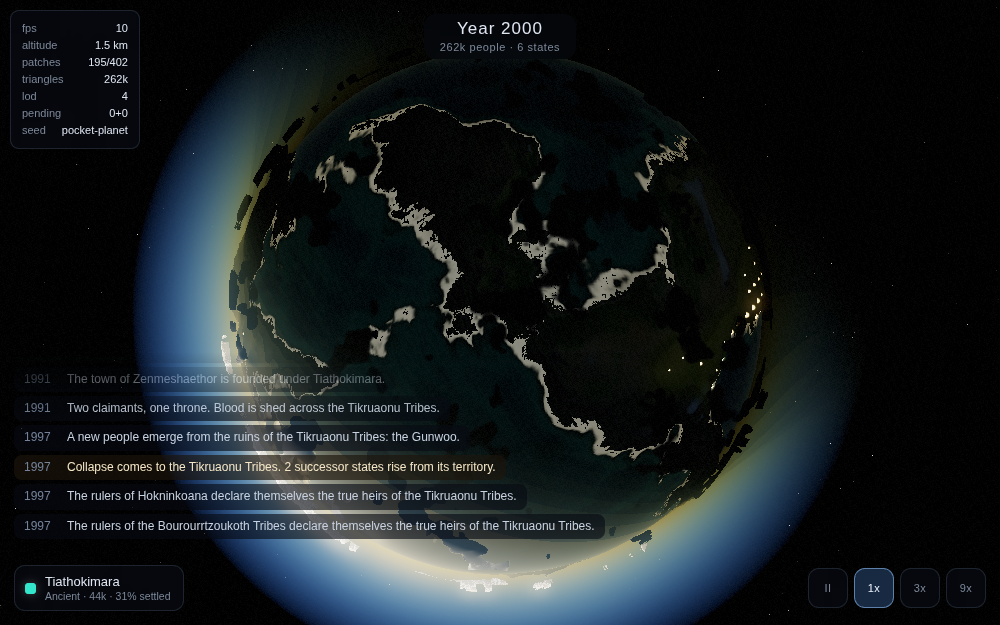
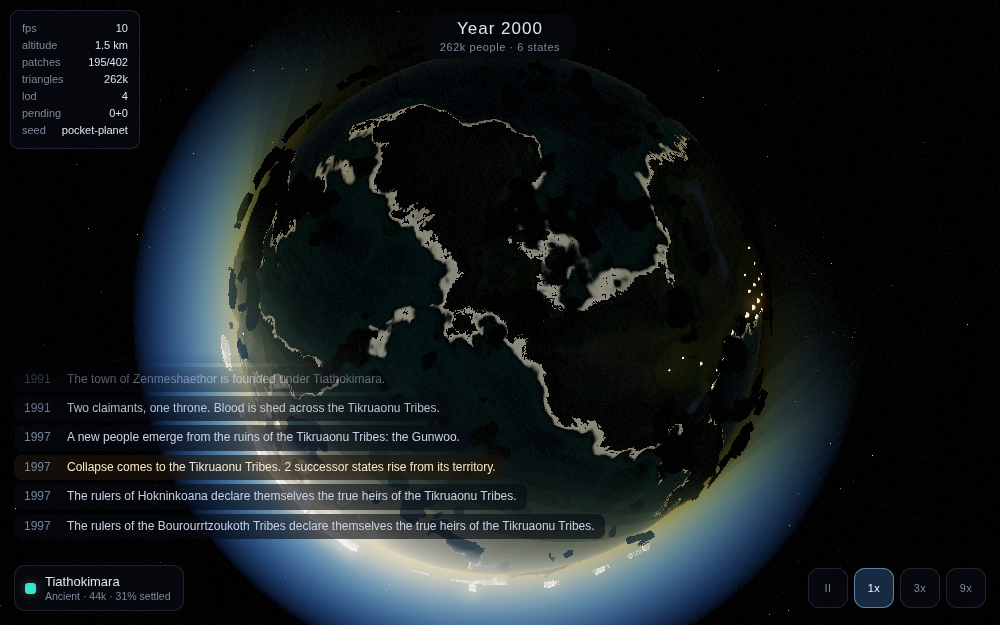
Refresh the reference shots, and add one of the region
The new viewpoint is the one this pass needs and the set did not have:
high enough that several settlements and the roads between them are in
frame at once, which is the only altitude at which a road network can be
judged at all. It is the only shot that asks for a clear sky — cloud
shadow at seven hundred metres makes the routes unreadable, and turning
the weather off for the whole run would change every other image — so
the harness now takes cloud coverage per viewpoint rather than only from
the environment.

Claude-Session: https://claude.ai/code/session_01Qz5H8DVqHp6DAkQgc6HnR8

diff --git a/src/app.ts b/src/app.ts
@@ -155,7 +155,8 @@ export class PocketPlanetApp {
     );
 
     if (opts.bloom !== undefined) this.pipeline.setBloom(opts.bloom);
-    if (opts.clouds !== undefined) this.pipeline.setCloudCoverage(opts.clouds);
+    this.defaultClouds = this.pipeline.atmosphere.uCloudCoverage.value as number;
+    if (opts.clouds !== undefined) this.setClouds(opts.clouds);
 
     // The simulation runs in its own worker on its own clock, so history
     // advances at the same rate whether the renderer is managing 60 fps or 20.
@@ -284,6 +285,20 @@ export class PocketPlanetApp {
   }
 
   /** True when the LOD system has nothing left to build for the current view. */
+  /**
+   * Cloud coverage, or the world's own value when given null.
+   *
+   * Exposed for the screenshot harness, which needs one viewpoint clear while
+   * the rest keep their weather: the shot that shows the road network between
+   * towns is unreadable under cloud shadow, and turning the sky off for the
+   * whole run would change every other reference image.
+   */
+  setClouds(coverage: number | null): void {
+    this.pipeline.setCloudCoverage(coverage ?? this.defaultClouds);
+  }
+
+  private defaultClouds = 0;
+
   isSettled(): boolean {
     const t = this.terrain.getStats();
     return this.terrain.isReady() && t.pending === 0 && t.queued === 0;

diff --git a/src/main.ts b/src/main.ts
@@ -198,6 +198,7 @@ declare global {
       app: PocketPlanetApp;
       setView(view: ViewState): void;
       isSettled(): boolean;
+      setClouds(coverage: number | null): void;
       stats(): Record<string, number>;
       skipBoot(): void;
       runYears(years: number): void;
@@ -219,6 +220,7 @@ window.pocketPlanet = {
     bootStart = performance.now();
   },
   isSettled: () => app.isSettled(),
+  setClouds: (coverage) => app.setClouds(coverage),
   stats: () => app.getStats(),
   skipBoot: () => {
     booted = true;
